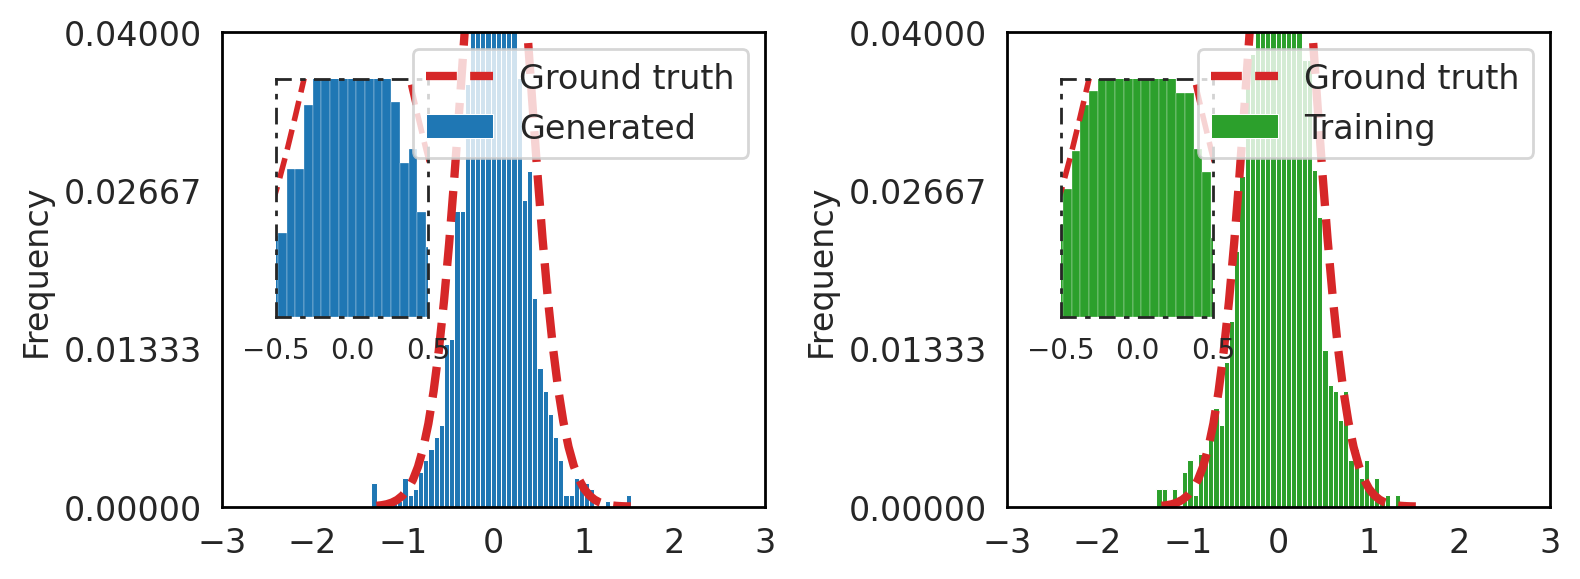
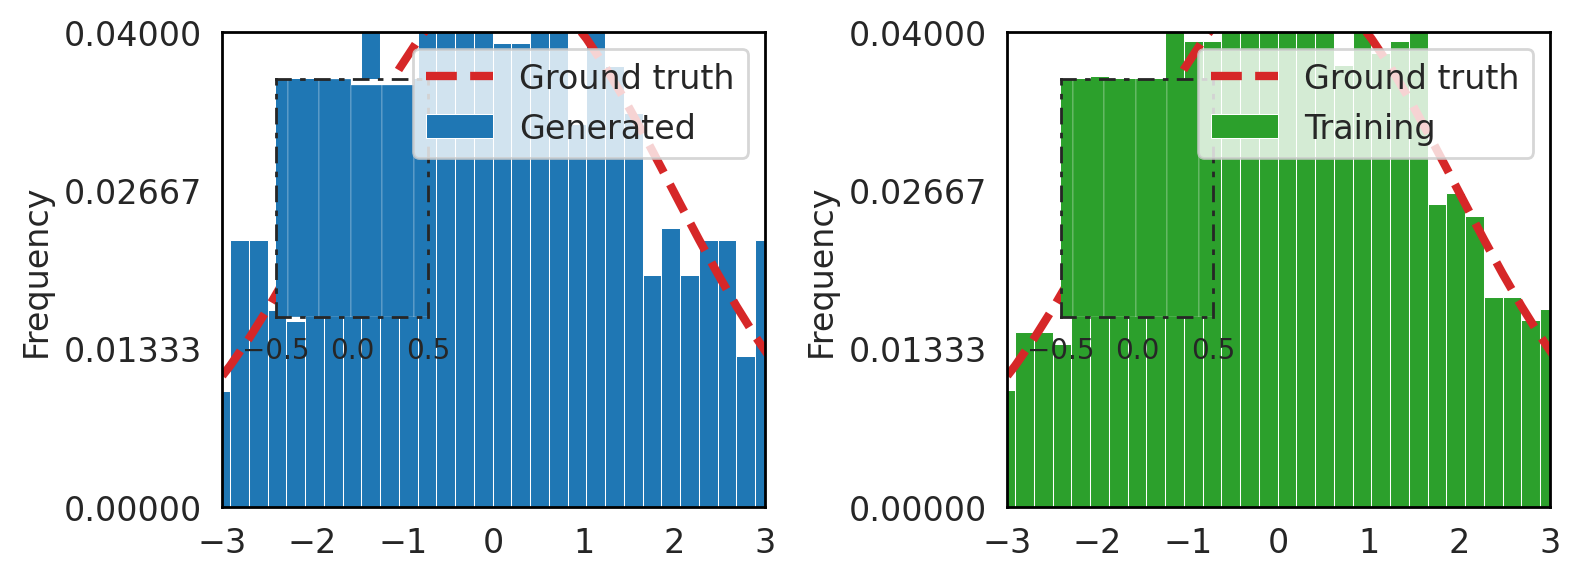
ovlerafmetrics

diff --git a/diffusion_factor_model/descriptor_score_model.py b/diffusion_factor_model/descriptor_score_model.py
@@ -44,6 +44,7 @@ def init_descriptor_A(num_descriptors: int, num_factors: int) -> torch.Tensor:
     """Orthonormal columns, unit scale — matches typical QR ground-truth T."""
     A = torch.empty(num_descriptors, num_factors)
     nn.init.orthogonal_(A)
+    # nn.init.xavier_normal_(A)
     return A
 
 
